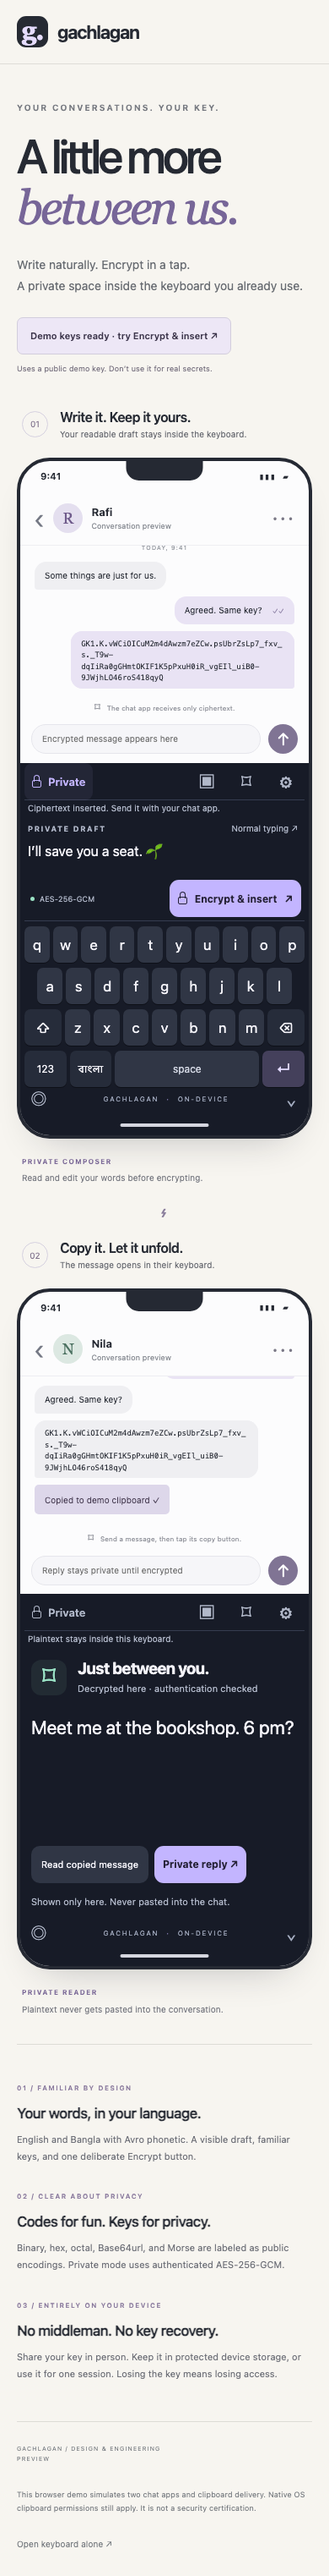
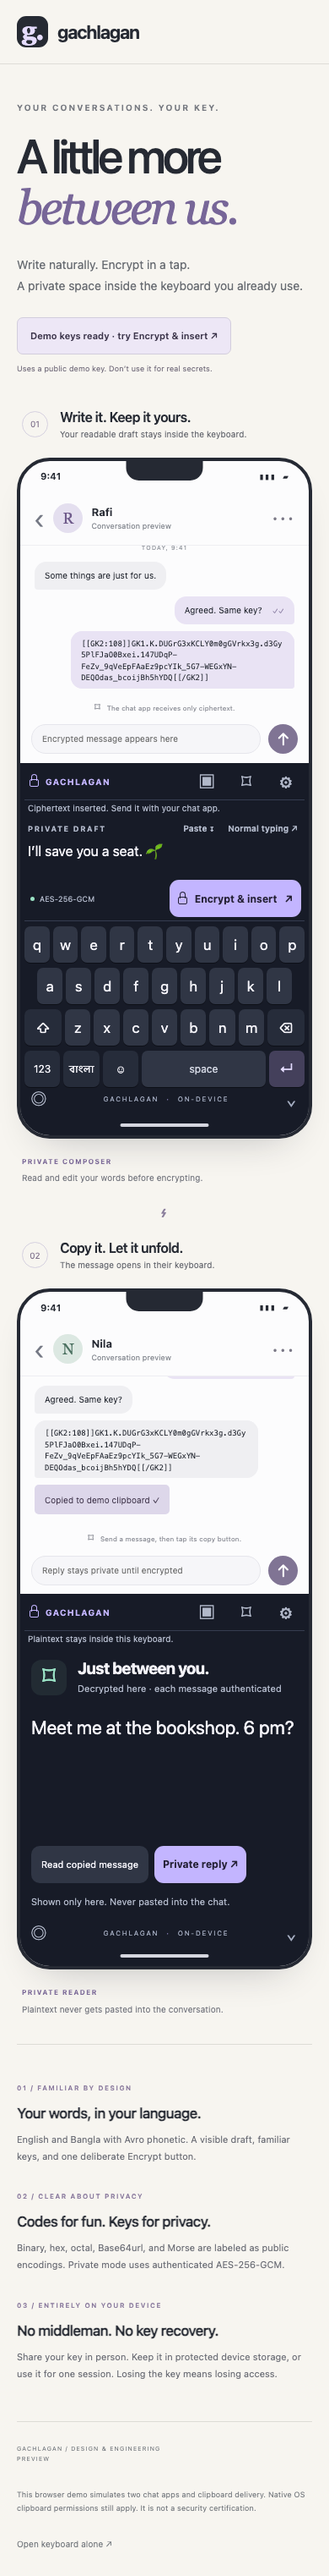
docs(release): explain keyboard modes security and platform delivery

diff --git a/README.md b/README.md
@@ -1,8 +1,8 @@
 # Gachlagan private keyboard
 
-An offline Android keyboard and iOS keyboard extension with a **visible private draft**, one-tap encryption, and an in-keyboard message reader. There are no accounts, encryption servers, analytics, or online key services.
+An offline Android keyboard and iOS keyboard extension with a **visible private draft**, one-tap encryption, Bangla Avro Phonetic, emoji, and an in-keyboard message reader. There are no accounts, encryption servers, analytics, or online key services.
 
-**Release status:** Android debug and unsigned release builds are available; automated tests are described in [the work log](docs/PROGRESS.md). iOS device testing and independent security review remain outstanding. This is not yet a production-approved release. Read [the security model and limits](docs/SECURITY.md) before using it for sensitive messages.
+**Release status:** `0.2.0-rc.1` is a source release candidate, **not a security-certified or production-approved release**. Android debug and unsigned release builds can be produced locally. iOS still needs a full Xcode/device run. Physical-device, real-app, and independent security review remain outstanding; see [verified results](docs/PROGRESS.md) and [security limits](docs/SECURITY.md) before using it for sensitive messages.
 
 ![Private composer and reader design](design/preview-desktop.png)
 
@@ -21,13 +21,26 @@ The demo uses a public test key and a simulated clipboard. It is for review, not
 
 ## Everyday flow
 
-1. Open keyboard settings on both phones. Enter the same generated key or long shared passphrase, exchanged in person. Save it in protected device storage if desired.
-2. Type into the **Private draft**. The words are visible to you and remain inside the keyboard. Tap বাংলা for local Avro phonetic: `ami` → `আমি`, `bangladesh` → `বাংলাদেশ`.
-3. Tap **Encrypt & insert**. Only the ciphertext enters the chat. Use the chat app’s Send button.
-4. Copy a received GK1 message. Automatic reading is on by default: while the keyboard is visible and OS clipboard access is allowed, the message opens directly in the reader. A saved device key is loaded automatically; otherwise enter the shared key once. If your OS misses the copy event, tap the small **Read copied message** button in the toolbar. No paste into the chat is needed.
+1. Open keyboard settings on both phones. Tap **Generate key** for a fast random 256-bit key, or enter the same long custom passphrase. Exchange it in person or over an independently trusted channel. Save it in protected device storage if desired.
+2. Type into the **Private draft**. The words are visible to you and remain inside the keyboard. Tap বাংলা for local Avro phonetic: `ami` → `আমি`, `bangladesh` → `বাংলাদেশ`. Tap Shift once for one capital, twice for Caps Lock, a third time to turn it off. Tap ☺ for emoji, or 123 and #+= for symbol pages.
+3. Tap **Encrypt & insert**. Only the framed ciphertext enters the chat. You can type and insert a second message into the same unsent chat draft; each insert gets its own header and tail. Use the chat app’s Send button.
+4. Copy a complete received frame or several adjacent frames in one selection. Automatic reading is on by default: while the keyboard is visible and OS clipboard access is allowed, the reader opens and shows all authenticated messages. A saved device key loads automatically; otherwise enter the shared key once. If your OS misses the copy event, tap **Read copied message** in the toolbar. No paste into the chat is needed.
 5. Tap **Private reply** to compose again. Lock clears the active key and plaintext. A saved key can unlock automatically on the next copied message; otherwise enter your key again.
 
-Settings separate authenticated AES-256-GCM encryption from binary, hex, octal, Base64url, and Morse **encodings**. Encodings are public and need no key. Morse supports English letters/numbers/common punctuation and decodes in uppercase; use byte encodings for Bangla. Hashes cannot be decrypted and are not presented as messaging modes.
+The message-mode chooser opens inside the keyboard (tap the mode label or Settings → Message mode). Settings use the full keyboard area until you tap the key field; then the keys appear and the field stays visible. Tap **Done typing** to return to the full settings view.
+
+### Security modes and speed
+
+| Mode | Secret? | What it does |
+| --- | --- | --- |
+| Private · AES-256-GCM with generated key | Yes | Authenticated encryption; HKDF-SHA256 creates a fresh per-message key. Recommended, fast route. |
+| Private · AES-256-GCM with custom passphrase | Yes | Same encryption, but PBKDF2-HMAC-SHA256 performs 600,000 iterations per message to resist guessing. Noticeably slower by design. |
+| Binary, octal, decimal, hex, Base32, Base64url, Base64, percent | No | Reversible public encodings of UTF-8 bytes, including Bangla and emoji. |
+| ROT13, Morse | No | Public text conversions. ROT13 changes Latin letters only; Morse uppercases English and rejects unsupported Bangla. |
+
+There is **one vetted private cipher suite**; the extra choices are labeled public conversions, not additional encryption algorithms. Hashes are one-way and are not messaging modes. Neither encryption nor decryption calls a server or needs Internet access. A generated random key avoids the expensive passphrase derivation; speed also depends on the device and number of frames.
+
+New inserts look like `[[GK2:<length>]]GK1.…[[/GK2]]`. The wrapper separates messages; GK1 is the authenticated ciphertext inside. Older standalone GK1 messages remain readable. To add another layer, copy a framed message, return to the private composer, tap **Paste**, then **Encrypt & insert**. The reader unwraps up to three layers. Frames do **not** authenticate the order or completeness of a whole chat; someone can remove or reorder valid frames. See [the protocol and threat model](docs/SECURITY.md).
 
 Normal typing sends text directly to the app and is explicitly labeled as unprotected. The private composer is necessary because encrypting plaintext after an app has already seen it cannot undo that exposure. The current Avro composition path is the private composer.
 
@@ -46,7 +59,7 @@ Set `ANDROID_HOME` to your SDK or configure `mobile/android/local.properties`. O
 - Debug APK: `mobile/android/app/build/outputs/apk/debug/app-debug.apk`
 - Unsigned release APK: `mobile/android/app/build/outputs/apk/release/app-release-unsigned.apk`
 
-Install the debug APK, open Gachlagan Keyboard, enable it, and select it. Debug builds enable WebView inspection and include a test host; use test messages only. Release builds disable debugging and exclude that host. The release APK needs your signing configuration before distribution. INTERNET permission is removed from the merged manifest; backups and device transfer of app data are excluded.
+Install the debug APK, open Gachlagan Keyboard, enable it, and select it. Debug builds enable WebView inspection and include a test host; **use test messages only**. Release builds disable debugging and exclude that host. The unsigned release APK **cannot** be installed as a trusted public release; sign it with your own private release key before distributing. INTERNET permission is removed from the merged manifest; backups and device transfer of app data are excluded.
 
 ## Build iOS
 
@@ -60,6 +73,26 @@ open mobile/ios/KMSample2.xcodeproj
 The internal project name is inherited from the original starter; the product is Gachlagan Keyboard. Set your team for both targets and adjust bundle IDs/entitlements as necessary. Enable the keyboard in Settings → General → Keyboard → Keyboards. Full Access and paste permission may be required for clipboard reading. Neither permission creates a network dependency.
 
 The active targets no longer link or embed the legacy Keyman engine, Sentry, Reachability, DeviceKit, or ZIPFoundation. Carthage/bootstrap-ios is only for the historical baseline and is not needed for this branch. The extension uses bundled Avro, WebKit, CryptoKit/CommonCrypto, and device-only Keychain storage.
+
+## GitHub release instructions
+
+This repository contains **source and build instructions**, not a signed public binary. Do not attach the debug APK, an unsigned APK, private signing keys, or a test-key-configured build to a GitHub Release.
+
+### Android release
+
+1. Run the [verification commands](#verification) and the remaining [release gates](docs/SECURITY.md#release-gates-still-requiring-real-validation). Increase `versionCode` for every published update and keep `versionName` in sync with the Git tag.
+2. In Android Studio, open `mobile/android`, choose **Build → Generate Signed Bundle / APK**, and sign the **release** variant with a private key you control. Choose APK for GitHub sideloading or Android App Bundle for Google Play. Back up the signing key securely; losing it can prevent compatible updates.
+3. Install that signed APK on physical Android devices; confirm keyboard setup, ciphertext-only insertion, multi-frame copying, key storage, clipboard behavior, and host-app compatibility. Verify that the final merged manifest has no INTERNET permission and the release app is not debuggable.
+4. Compute and publish a SHA-256 checksum alongside the signed APK, release notes, supported Android versions, and the exact source Git tag. Keep signing credentials out of this repository and CI logs. [Android’s signing guide](https://developer.android.com/studio/publish/app-signing) explains the supported signing flows.
+
+### iOS release
+
+1. Use full Xcode on macOS. Run `npm ci && npm run build:secure`, open `mobile/ios/KMSample2.xcodeproj`, select your Apple development team for the containing app and keyboard extension, and set unique bundle identifiers and matching capabilities. This checkout has **not** been fully built or tested with Xcode.
+2. Build and test on real iPhones/iPads, including copy/paste permissions and Full Access, app switching, password fields, key recovery, multiline editors, and multiple host apps. Full Access grants the extension additional OS capabilities, but this app makes no network calls; explain that distinction to users.
+3. Archive the containing app in Xcode and distribute through TestFlight or the App Store after signing and review. A source checkout on GitHub is buildable by developers with their own signing setup; an unsigned IPA is not a generally installable iPhone release. [Apple’s distribution guide](https://developer.apple.com/documentation/xcode/distributing-your-app-for-beta-testing-and-releases) covers archives and TestFlight/App Store delivery.
+4. Link the TestFlight/App Store listing, release notes, supported iOS versions, and exact source Git tag from the GitHub Release. Never publish provisioning profiles, certificates, or private keys.
+
+Do not describe a GitHub tag or successful automated tests as proof that the keyboard is secure in all messaging apps. Publish as a **pre-release** until the device, host-app, and independent review gates are complete.
 
 ## Verification
 
@@ -85,4 +118,4 @@ Android E2E installs the debug app and temporarily changes the emulator’s keyb
 - `docs/SECURITY.md`: protocol, threat model, sources, and release gates.
 - `docs/PROGRESS.md`: verified results and unfinished work.
 
-`main` preserves the first Avro milestone (`fca525a`). Encryption work is on `feature/offline-encrypted-keyboard`. See `git log --oneline --decorate --all`. Nothing has been pushed or published.
+`main` preserves the first Avro milestone (`fca525a`). Encryption work is on `feature/offline-encrypted-keyboard`. See `git log --oneline --decorate --all`. Nothing has been pushed, signed for public distribution, or published from this workspace.

diff --git a/docs/SECURITY.md b/docs/SECURITY.md
@@ -6,8 +6,8 @@ This is an implemented security feature under test, not a certification or a pro
 
 1. Both people manually enter the same shared secret. Prefer a generated, random 256-bit key; exchange it in person or through an independently trusted channel.
 2. Compose in the keyboard’s visible **Private draft**. Plaintext is never inserted into the messaging app during private composition. Avro is processed locally.
-3. **Encrypt & insert** places only a GK1 ciphertext envelope into the current editor. The messaging app sends it using its normal Send button.
-4. Copy a received GK1 message. Automatic reading is enabled by default and, while the keyboard is visible, a recognized clipboard event opens it directly in the full keyboard reader. A saved key is loaded from protected device storage automatically; without one, enter the shared key once. A toolbar **Read copied message** button is available when OS restrictions prevent automatic reading.
+3. **Encrypt & insert** places a length-framed GK1 ciphertext envelope into the current editor. The messaging app sends it using its normal Send button. Several inserts can sit together in one editor.
+4. Copy one complete framed message, or several adjacent framed inserts. Automatic reading is enabled by default and, while the keyboard is visible, a recognized clipboard event opens them directly in the reader. A saved key is loaded from protected device storage automatically; without one, enter the shared key once. A toolbar **Read copied message** button is available when OS restrictions prevent automatic reading.
 5. **Private reply** clears the reader and opens the composer. There is intentionally no action that copies decrypted plaintext into the clipboard or chat.
 
 Typing plaintext into an app first and encrypting it afterward cannot stop that app from having observed the original text. Normal typing is explicitly marked as visible to the app. This build does not crawl or replace an arbitrary app’s entire draft: iOS provides limited text context, and destructive replacement can lose user text.
@@ -28,11 +28,19 @@ Implementations: Web Crypto (preview), Android JCA (`Cipher`, `SecretKeyFactory`
 
 AES-GCM is a standard authenticated-encryption choice. Argon2id is usually preferable for human passwords when suitable memory is available; it is not silently substituted here. PBKDF2 is used for portable platform-native execution in constrained keyboard extensions, at the OWASP-listed SHA256 work factor. Random shared keys are the recommended security path and do not depend on human-password strength. This is a deliberate portability tradeoff, not a claim that one algorithm is universally “best.”
 
+The encryption and decryption path has **no Internet or server dependency**. Random generated keys use HKDF-SHA256 followed by platform AES-GCM and are fast. Custom passphrases deliberately run 600,000 PBKDF2-HMAC-SHA256 iterations **for each new message salt**, on both encryption and decryption. Reducing that cost just to improve perceived speed would make offline password guessing easier. A long, randomly generated shared key is the supported fast path; devices and very long batches may still take time. There is no guarantee of instantaneous response.
+
+## Framing and multiple inserts
+
+New inserts use an ASCII wrapper: `[[GK2:<character-count>]]<GK1 envelope>[[/GK2]]` for private messages, or `[[GE2:<character-count>]]<GE1 envelope>[[/GE2]]` for public encodings. The count is the UTF-16 string length of the inner wire text. A copied selection may hold up to 16 adjacent frames, optionally separated by whitespace, within the 40,000-character clipboard limit; nested reading also stops after 16 total inner messages. An incomplete frame, damaged tail, unrecognized content between frames, or any failed authentication rejects the entire copied batch without displaying partial plaintext. Standalone GK1/GE1 messages from earlier builds remain readable.
+
+A user can copy a framed encrypted message, tap **Paste** in the private composer, and encrypt that text again (subject to the 4,096-byte draft limit). The reader unwraps at most three nested layers. This is still shared-key encryption, not a ratchet: framing is **not authenticated as a conversation transcript**. An attacker can remove, reorder, or replay whole valid frames, even though they cannot change an individual GK1 plaintext without its key. Copy the complete selection and inspect the order yourself.
+
 ## Public encodings: GE1
 
-`GE1.<binary|octal|hex|base64|morse>.<encoded-text>`
+`GE1.<mode>.<encoded-text>`
 
-These provide **no secrecy or authentication** and require no key. UTF-8 byte encodings round-trip Bangla and emoji. Morse supports its documented English alphabet and common punctuation, converts letters to uppercase, and rejects unsupported characters rather than silently losing Bangla. Hashes are not offered as reversible message modes. A “custom key” changes the shared secret, not the cryptographic algorithm; arbitrary executable encryption code is not accepted.
+The public modes are binary, octal, decimal, hexadecimal, Base32, Base64url, standard Base64, percent-encoded UTF-8, ROT13, and Morse. They provide **no secrecy or authentication** and require no key. UTF-8 byte encodings round-trip Bangla and emoji. ROT13 changes only Latin letters, leaving Bangla and emoji unchanged. Morse supports its documented English alphabet and common punctuation, converts letters to uppercase, and rejects unsupported characters rather than silently losing Bangla. Hashes are not offered as reversible message modes. A “custom key” changes the shared secret, not the cryptographic algorithm; arbitrary executable encryption code is not accepted. The UI intentionally offers one vetted private cipher suite rather than numerous weaker or incompatible choices.
 
 The version markers allow automatic recognition. Arbitrary unmarked binary from another converter is not automatically interpreted as a secret message; this avoids reading unrelated clipboard content as messages.
 
@@ -48,7 +56,7 @@ The version markers allow automatic recognition. Arbitrary unmarked binary from 
 
 ## Clipboard and network boundaries
 
-Android’s default IME can access the clipboard subject to OS behavior. Automatic reads are on by default but can be turned off in Settings; they are limited to the visible keyboard, recognized GK1/GE1 text, and bounded sizes. Clipboard history is not retained. URI clipboard data is not opened. Clipboard keys are read only through an explicit Paste key action; saved device keys can be loaded automatically for recognized encrypted messages.
+Android’s default IME can access the clipboard subject to OS behavior. Automatic reads are on by default but can be turned off in Settings; they are limited to the visible keyboard, recognized framed or legacy GK1/GE1 text, and bounded sizes. Clipboard history is not retained. URI clipboard data is not opened. Clipboard keys are read only through an explicit Paste key action; saved device keys can be loaded automatically for recognized encrypted messages.
 
 iOS clipboard access may require Full Access and system paste approval. Extensions cannot execute continuously in the background; copying while the extension is absent cannot immediately display a reader. Opening the keyboard allows the next attempt. The OS may still require tapping Read copied message. No permission bypass is attempted.
 

diff --git a/docs/PROGRESS.md b/docs/PROGRESS.md
@@ -2,10 +2,14 @@
 
 Branch: `feature/offline-encrypted-keyboard`. Baseline: `fca525a` on `main`.
 
+Current source candidate: `0.2.0-rc.1`. No signed public release or GitHub remote exists in this workspace.
+
 ## Implemented in this branch
 
 - Shared private composer with visible plaintext draft; ciphertext only enters the host app after Encrypt & insert.
-- Compact local message reader, settings, Avro typing, and unkeyed encoding modes. Copying a recognized message opens the reader automatically by default; a protected saved key is loaded on demand, while a missing key prompts once. The toolbar keeps a manual clipboard fallback.
+- Compact local message reader, settings, Avro typing, emoji, one-shot Shift/Caps Lock, and unkeyed encoding modes. Copying a recognized message opens the reader automatically by default; a protected saved key is loaded on demand, while a missing key prompts once. The toolbar keeps a manual clipboard fallback.
+- In-keyboard mode chooser in place of the unreliable native dropdown; full-height settings until key entry is focused. Ten explicitly public encoding modes plus one authenticated private mode.
+- Length-checked GK2/GE2 wrappers around new inserts. Up to 16 adjacent frames can be copied and opened as one selection; a Paste action allows bounded nested encryption. Legacy standalone GK1/GE1 remains readable. Failed authentication in any frame reveals no batch plaintext.
 - Versioned authenticated encryption using platform AES-256-GCM. Generated 256-bit shared keys are the recommended mode; custom passphrases are supported with PBKDF2-HMAC-SHA256 (600,000 iterations).
 - Native crypto implementations for Android and iOS plus a browser implementation for interop and interface tests.
 
@@ -13,12 +17,12 @@ Branch: `feature/offline-encrypted-keyboard`. Baseline: `fca525a` on `main`.
 
 | Check | Result | Scope |
 | --- | --- | --- |
-| `npm run verify` | 12 tests passed; shared keyboard builds/syncs | Avro, Unicode, crypto, encodings, wrong keys, tampering, limits |
+| `npm run verify` | 14 tests passed; shared keyboard builds/syncs | Avro, Unicode, crypto, ten encodings, framing, wrong keys, tampering, limits |
 | `npm run test:interop` | 54 checks passed | Web Crypto, Java JCA, Apple CryptoKit/CommonCrypto on macOS; generated keys, passphrases, Unicode normalization, tamper rejection |
-| `npm run test:e2e` | 9 browser E2E tests passed | Compact visible draft, ciphertext-only host, one-copy decrypt/reply, first-time key prompt, automatic-read opt-out, wrong key, XSS-as-text, Avro/backspace, locking, in-flight cancellation, offline operation, no web storage, accessibility at 320px |
+| `npm run test:e2e` | 14 browser E2E tests passed | Visible draft, one-shot Shift/Caps Lock, emoji, mode chooser, adjacent/nested frames, batch tamper fail-closed, first-time key prompt, automatic-read opt-out, wrong key, XSS-as-text, Avro/backspace, locking, offline operation, no web storage, accessibility at 320px |
 | Android `assembleDebug assembleRelease` | Passed | Installable debug APK and unsigned release APK |
 | Android `lintDebug` | Passed, 0 errors / 8 warnings | Remaining warnings concern newer dependency versions, intentional bundled JavaScript, and debug-only untranslated test labels |
-| `npm run test:android` | Passed on API 35 emulator | Actual IME/editor connection, visible plaintext in keyboard only, native encryption/insertion, one-copy auto-decryption, automatic saved-key unlock after Lock, Keystore save/restore/delete, native Unicode passphrase → Web Crypto interoperability, hide-to-lock |
+| `npm run test:android` | Passed on API 35 emulator | Actual IME/editor connection, Shift/emoji/mode chooser, grapheme-aware deletion in the host editor, adjacent native framed inserts from one copy, automatic saved-key unlock after Lock, Keystore save/restore/delete, native Unicode passphrase → Web Crypto interoperability, hide-to-lock |
 | Release manifest inspection | Passed | No INTERNET, no debug host, no debuggable flag; backups disabled and explicit transfer exclusions |
 | Swift parser and Xcode project plist checks | Passed | Syntax/project structure only, not iOS compilation |
 | Visual review | Desktop and mobile captured | `design/preview-desktop.png`, `design/preview-mobile.png` |
@@ -37,6 +41,7 @@ crypto test runs on macOS, not inside an iOS keyboard extension.
   from active native targets; preserved the baseline in Git and legacy assets.
 - Aligned transitive Kotlin libraries after removing the old runtime.
 - Settings persist locally; secrets persist only with opt-in protected storage.
+- There is no network dependency in the encryption path. A generated 256-bit key takes the fast HKDF/AES-GCM path; passphrases deliberately pay the 600,000-iteration PBKDF2 cost on each message. No speed claim is made for every device.
 - Async results cannot restore keys or insert a message after session locking.
 - A public demo key exists only in the design/test harnesses, not as a native
   keyboard default. Native encryption requires user setup.
@@ -45,6 +50,11 @@ crypto test runs on macOS, not inside an iOS keyboard extension.
   adding a workflow is not evidence that its iOS build passes.
 
 ## Release status
+
+The README now contains GitHub release steps for signed Android APKs and
+iOS TestFlight/App Store delivery. The available Xcode Command Line Tools can
+parse Swift and validate project plists, but full Xcode is absent here, so
+the iOS target has not been compiled or run in a simulator/device.
 
 Not approved for production release. Full iOS Xcode/device testing, physical
 Android device and real messaging-app testing, independent security review,
